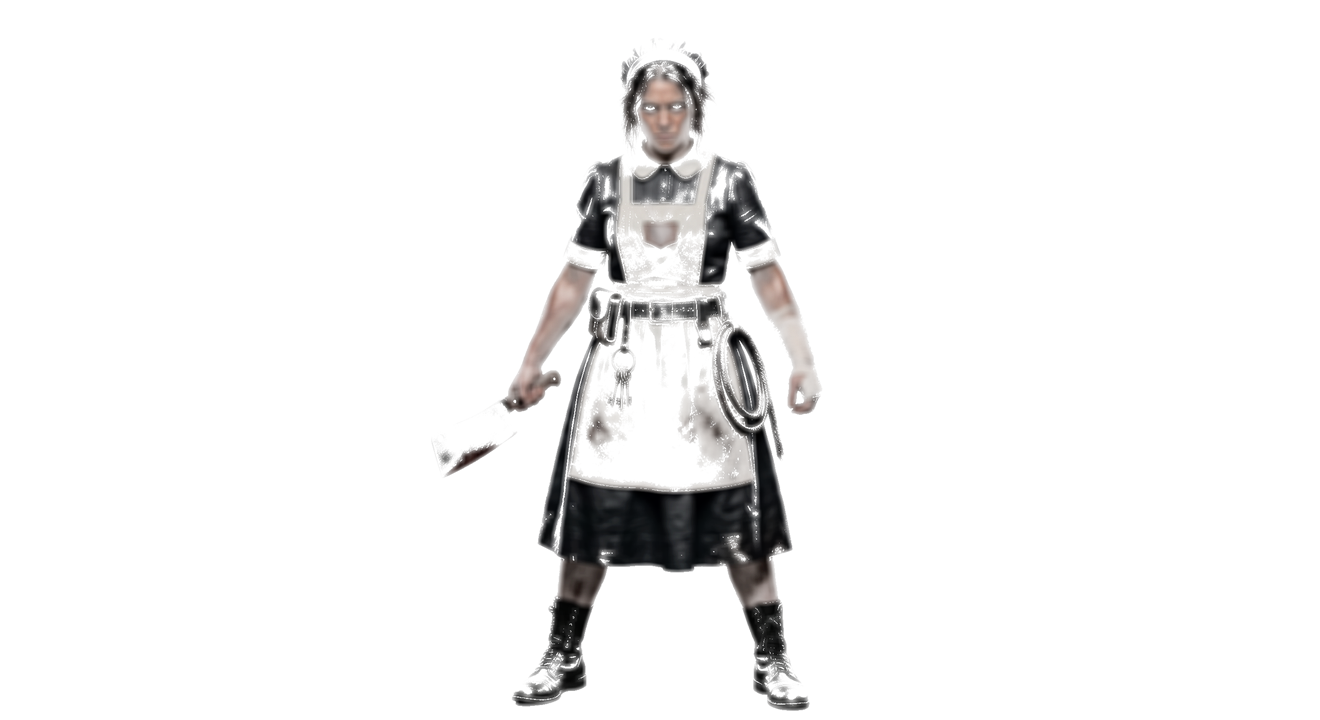
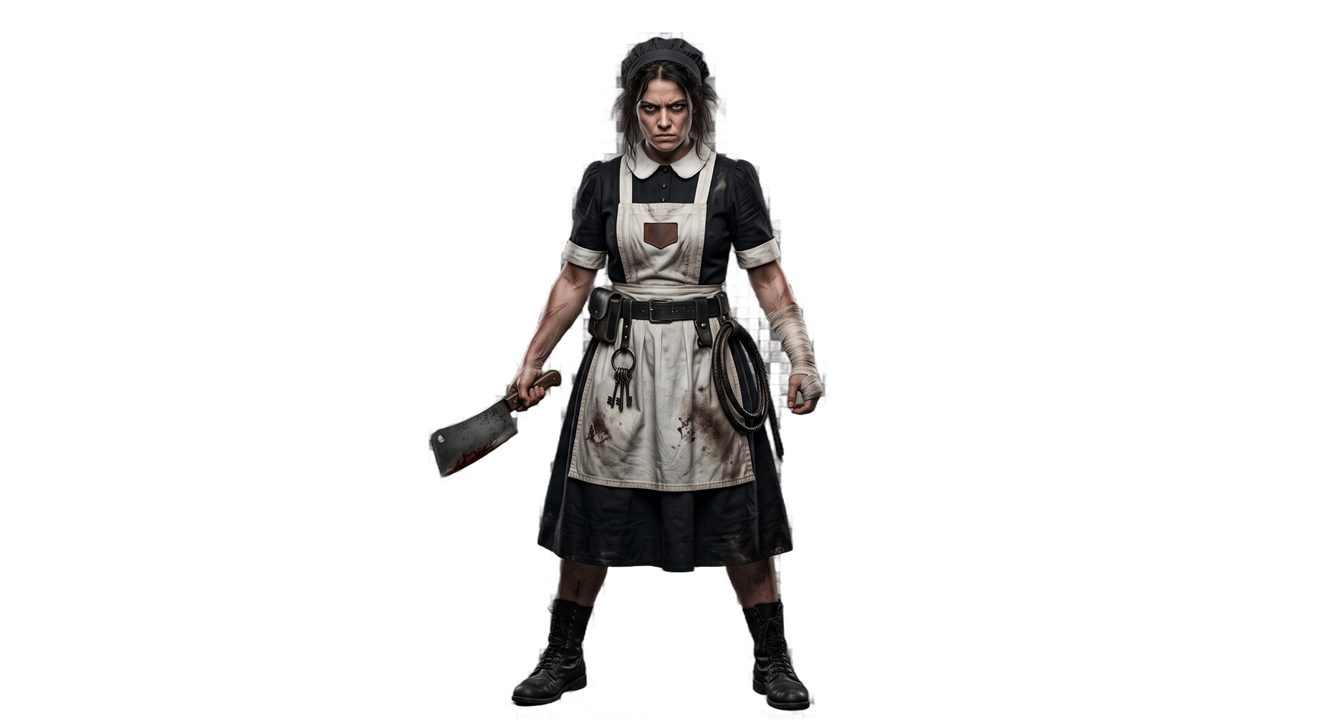
v2.2.1 — 전투 끝나면 초상 내림 · 비치던 그림 열한 장 다시 다듬음

Changed region(s): [[0.3106, 0.0306, 0.6523, 1.0]]

diff --git a/engine.js b/engine.js
@@ -11,7 +11,7 @@
  *    가운뎃자리  장이 늘거나 기능이 추가될 때
  *    뒷자리  대사·수치 손질
  */
-const VERSION = "2.2.0";
+const VERSION = "2.2.1";
 const VERSION_NAME = "호감이 끝나는";
 
 /* ── 규칙 상수 ─ 밸런스를 만지려면 여기 ────────────────────── */
@@ -2744,6 +2744,16 @@ function clearSpeaker() {
   renderStage();
 }
 
+/* 전투가 끝나면 전투 중 대사(연계 선창·대답, 연계 호령, 설득전 대사)로 떠 있던
+ * 초상을 내립니다(사용자 지침 2026-09-11). clearSpeaker 와 달리 무대를 통째로
+ * 다시 그리지 않고 그 자리만 떼어 냅니다 — 다시 그리면 막 쓰러지기 시작한 적
+ * 그림(foeFalls)과 마지막 일격의 피해 숫자(showBigDamage)가 새로 그려져 끊깁니다. */
+function dropSpeaker() {
+  CUR_SPEAKER = null;
+  const w = $stage.querySelector(".figwrap.left");
+  if (w) w.remove();
+}
+
 /* 전투 중 대사를 적이 선 자리(무대 가운데)에 큰 글씨로 얹는다 — battleSay 전용.
  * drawStage 를 다시 부르지 않고 지금 그려진 칸에 얹기만 하므로, 초상·적 그림은
  * 그대로 둔 채 글씨만 갈아 끼웁니다. 다음에 drawStage 가 무대를 다시 그리면
@@ -2958,7 +2968,9 @@ function allyHitFx(who, dmg, opt) {
 function foeFalls(after) {
   const el = document.getElementById("figure");
   CUR_FOE = null;
-  CUR_SPEAKER = null;   // 싸움이 끝났으니, 말하던 사람의 초상도 함께 내린다
+  /* 싸움이 끝났으니, 말하던 사람의 초상도 함께 내린다. 예전엔 CUR_SPEAKER 만 비워서
+   * 다음에 무대를 다시 그릴 때까지 그림이 그대로 남아 있었습니다 — 화면에서도 뗍니다. */
+  dropSpeaker();
   if (!el) { if (after) after(); return; }
   el.classList.remove("hit");
   el.classList.add("gone");
@@ -5454,6 +5466,9 @@ function persuadeEnd() {
    * 쓰러뜨려 이긴 것이 아니라 «설득된» 것이라 foeFalls 같은 쓰러지는 연출은
    * 쓰지 않지만, 그렇다고 적인 채로 계속 서 있으면 곧바로 이어지는 대화가
    * 어긋납니다 — 그 자리만 조용히 비웁니다. 배경은 그대로 둡니다. */
+  /* 초상을 먼저 내립니다 — showFoe 가 무대를 다시 그리므로, 그 전에 비워 두지 않으면
+   * 마지막 설득 대사의 초상이 새 무대에 그대로 다시 그려집니다. */
+  dropSpeaker();
   showFoe(null, null, null);
   healParty(RULE.winHeal, null);
   if (b.scene.party) { forcePartyPop(); S.battleForced = false; }
@@ -5497,6 +5512,7 @@ function defeat() {
   }
   const scene = b.scene;
   S.battle = null;
+  dropSpeaker();   // 다시 도전 화면에 전투 중 대사의 초상이 남지 않게
 
   /* 익스트림 거울 던전·거울굴절철도처럼 길잡이가 중간에 들르는 갈래는, 그 자리를
    * 지난 뒤에 지면 그 보스만 다시 하는 대신 «길잡이를 다시 만나는 자리»로 돌아갑니다

diff --git a/index.html b/index.html
@@ -1021,23 +1021,23 @@
 
 <div id="modal"><div class="sheet" id="sheet"></div></div>
 
-<script src="data/access.js?v=2.2.0"></script>
-<script src="data/vault.js?v=2.2.0"></script>
-<script src="data/characters.js?v=2.2.0"></script>
-<script src="data/skills.js?v=2.2.0"></script>
-<script src="data/allies.js?v=2.2.0"></script>
-<script src="data/gifts.js?v=2.2.0"></script>
-<script src="data/pickup.js?v=2.2.0"></script>
-<script src="data/achievements.js?v=2.2.0"></script>
-<script src="data/mail.js?v=2.2.0"></script>
-<script src="data/notice.js?v=2.2.0"></script>
-<script src="data/patch.js?v=2.2.0"></script>
-<script src="data/event.js?v=2.2.0"></script>
-<script src="data/tutorial.js?v=2.2.0"></script>
-<script src="data/foes.js?v=2.2.0"></script>
-<script src="data/story.js?v=2.2.0"></script>
-<script src="data/mirrorpacks.js?v=2.2.0"></script>
-<script src="engine.js?v=2.2.0"></script>
+<script src="data/access.js?v=2.2.1"></script>
+<script src="data/vault.js?v=2.2.1"></script>
+<script src="data/characters.js?v=2.2.1"></script>
+<script src="data/skills.js?v=2.2.1"></script>
+<script src="data/allies.js?v=2.2.1"></script>
+<script src="data/gifts.js?v=2.2.1"></script>
+<script src="data/pickup.js?v=2.2.1"></script>
+<script src="data/achievements.js?v=2.2.1"></script>
+<script src="data/mail.js?v=2.2.1"></script>
+<script src="data/notice.js?v=2.2.1"></script>
+<script src="data/patch.js?v=2.2.1"></script>
+<script src="data/event.js?v=2.2.1"></script>
+<script src="data/tutorial.js?v=2.2.1"></script>
+<script src="data/foes.js?v=2.2.1"></script>
+<script src="data/story.js?v=2.2.1"></script>
+<script src="data/mirrorpacks.js?v=2.2.1"></script>
+<script src="engine.js?v=2.2.1"></script>
 <script>
 /* 데이터 파일을 못 읽은 경우에 대비한 안내 */
 if (typeof CHAPTERS === "undefined" || typeof SINNERS === "undefined") {

diff --git a/data/foes.js b/data/foes.js
@@ -200,7 +200,14 @@ const FOES = {
   },
   nbga_heavy: {
     name: "북부 총기 협회 중화기반", hp: 320, atk: 26, def: 11,
-    img: "assets/enemy/북부 총기 협회.png",
+    /* 총원과 나눠 쓰던 그림을 중화기반 제 그림으로 갈았습니다(2026-09-11).
+     * 사진풍 그림이라 tools/README 의 «사진에서 잘라 온 적» 순서대로
+     * 체크무늬-지우기(-NoGlow -Sat 5) → 부스러기-지우기 → 세로 720 을 거쳤습니다.
+     * 흰 행전·버선목·총 몸통의 회색이 무늬 색과 닮아 함께 지워져서, 그 자리만
+     * 원본에서 되살렸습니다 — 몸 안쪽에 갇힌 구멍 중 두 톤 무늬가 아닌 것과,
+     * 바지 밑단~장화 윗단 · 장화 밑단~신발 윗단 사이의 다리 폭 안쪽입니다.
+     * 원본은 temp/총기협회 중화기.png 에 남아 있습니다. */
+    img: "assets/enemy/북부 총기 협회 중화기반.png",
     desc: "메카고질라를 맞힌 그 포를 다루는 반. 정작 그 포가 겨누던 것은 따로 있었다.",
     intro: "포신이 이쪽으로 돌아간다. 마지못해."
   },

diff --git a/data/patch.js b/data/patch.js
@@ -39,6 +39,14 @@
 
 const PATCH_NOTES = [
   {
+    ver: "2.2.1", name: "호감이 끝나는", date: "2026-09-12",
+    lines: [
+      "전투가 끝나면, 전투 중에 말하던 사람(연계 효과 · 연계 호령 · 설득전 대사)의 얼굴이 무대에서 내려갑니다. 예전에는 다음 장면이 그려질 때까지 남아 있었습니다.",
+      "적과 인물 그림 <b style=\"color:#d8b26a\">열한 장</b>을 다시 다듬었습니다. 배경을 지우던 방식 탓에 몸이 반투명해져 무대 배경이 비쳐 보이던 것을 고쳤습니다.",
+      "북부 총기 협회 중화기반이 총원과 같은 그림을 쓰던 것을 제 그림으로 바꿨습니다."
+    ]
+  },
+  {
     ver: "2.2.0", name: "호감이 끝나는", date: "2026-09-11",
     lines: [
       "화면 글꼴이 바뀌었습니다 — 화면 전체는 <b style=\"color:#d8b26a\">Pretendard</b>, 이야기와 전투에서 사람이 하는 말은 <b style=\"color:#d8b26a\">고운바탕</b>입니다. 대사만 결이 달라 지문·전투 줄과 한눈에 갈립니다.",
